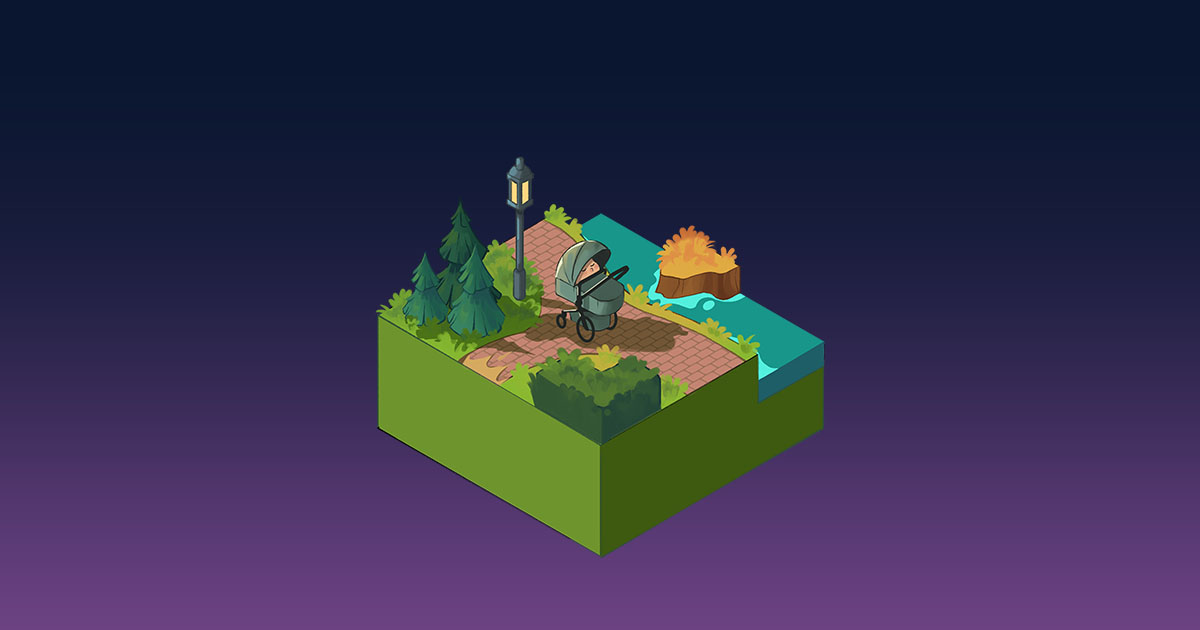
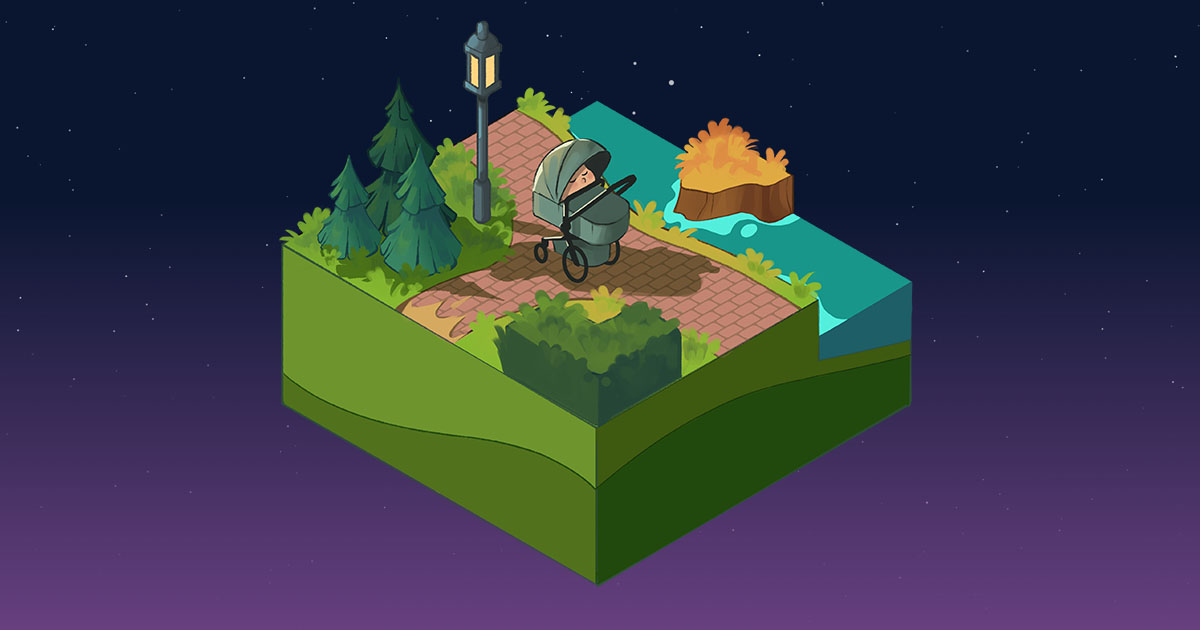
Changed: New images
Fixed: Note continue arrow symbol was not shown on mobile.
Fixed: Timing of play button enabling.

Changed region(s): [[0.2158, 0.0302, 0.7708, 0.9349]]

diff --git a/scripts/defs.js b/scripts/defs.js
@@ -1,6 +1,6 @@
 //#region Constants
 const DEV_MODE = 1;             //--- 0: disabled, 1: offline, 2: offline & online
-const DEV_SKIP_INTRO = 0;       //--- When true, intro screen will be skipped. Offline mode only.
+const DEV_SKIP_INTRO = 1;       //--- When true, intro screen will be skipped. Offline mode only.
 const DEV_MANUAL_LOAD = 1;      //--- When true, loading screen has to be progressed manually by clicking on play button. Dev mode only.
 
 const FORCED_START = [];        //--- When defined, all new tiles will start on this position instead of the one configured in ORIGIN_POSITIONS

diff --git a/styles/intro.css b/styles/intro.css
@@ -200,9 +200,9 @@
 }
 
 #locIntroTitle1	 { animation-delay: 1.0s; }
-#locIntroTitle2	 { animation-delay: 2.5s; }
+#locIntroTitle2	 { animation-delay: 2.5s; animation-name: animNoteLine !important; }
 #locIntroTitle3	 { animation-delay: 4.0s; }
 #locIntroTitle4	 { animation-delay: 4.0s; }
 #locIntroTitle5	 { animation-delay: 5.5s; }
 #play, #noScript { animation-delay: 7.0s; }
-#gameObject	 	 { animation-delay: 7.0s; }
+#gameObject	 	 { animation-delay: 7.5s; }

diff --git a/index.html b/index.html
@@ -89,6 +89,7 @@
 				</div>
 
 				<div>
+
 					<!-- Button -->
 					<div id="play" class="hidden">
 						<button id="playButton" type="button" autofocus disabled>
@@ -118,7 +119,7 @@
 		<!-- Note -->
 		<div id="noteArea">
 			<div id="note" class="noteText hidden ignoreCursor"></div>
-			<div id="noteContinue" class="hidden">🡒</div>
+			<div id="noteContinue" class="hidden">»</div>
 		</div>
 
 		<!-- Outro -->

diff --git a/styles/note.css b/styles/note.css
@@ -18,11 +18,12 @@
 {
 	width: 5vh;
 	height: 5vh;
-	line-height: 5.25vh;
+	line-height: 4.5vh;
 	margin: 2vh auto 0 auto;
 
 	font-size: 4vh;
 	text-align: center;
+	vertical-align: middle;
 	color: var(--color-light);
 	opacity: 0;
 

diff --git a/scripts/intro.js b/scripts/intro.js
@@ -26,7 +26,7 @@ var Intro = new function()
         setTimeout(() => {
             m_CanLoad++
             Intro.OnLoadFinished();
-        }, 6000);
+        }, 8250);
     }
 
     this.OnLoadFinished = function()
